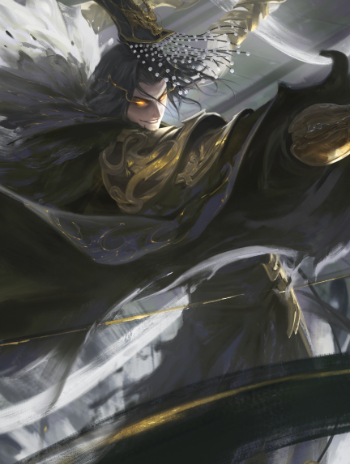
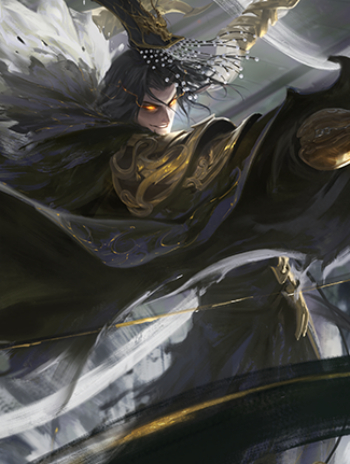
feat: 素材补充、界巨兽界马超增强为国际服版本、谋张任+1血 (#4049)

diff --git a/apps/core/character/mobile/skill.js b/apps/core/character/mobile/skill.js
@@ -20524,29 +20524,39 @@ const skills = {
 		subfrequent: ["draw"],
 		enable: "phaseUse",
 		usable: 1,
+		locked: false,
+		mod: {
+			cardUsable(card) {
+				if (card?.storage?.xinjianying) {
+					return Infinity;
+				}
+			},
+		},
 		filter(event, player) {
 			if (!player.countCards("he")) {
 				return false;
 			}
-			for (var i of lib.inpile) {
-				if (i != "du" && get.type(i, null, false) == "basic") {
-					if (event.filterCard({ name: i }, player, event)) {
-						return true;
-					}
-					if (i == "sha") {
-						for (var j of lib.inpile_nature) {
-							if (event.filterCard({ name: i, nature: j }, player, event)) {
-								return true;
-							}
-						}
-					}
+			return get.inpileVCardList(info => {
+				if (info[0] !== "basic") {
+					return false;
 				}
-			}
-			return false;
+				return event.filterCard(
+					get.autoViewAs(
+						{
+							name: info[2],
+							nature: info[3],
+							storage: { xinjianying: true },
+						},
+						"unsure"
+					),
+					player,
+					event
+				);
+			}).length;
 		},
 		onChooseToUse(event) {
 			if (event.type == "phase" && !game.online) {
-				var last = event.player.getLastUsed();
+				const last = event.player.getLastUsed();
 				if (last && last.getParent("phaseUse") == event.getParent()) {
 					var suit = get.suit(last.card, false);
 					if (suit != "none") {
@@ -20557,17 +20567,17 @@ const skills = {
 		},
 		chooseButton: {
 			dialog(event, player) {
-				var list = [];
-				var suit = event.xinjianying_suit || "",
+				const list = [];
+				const suit = event.xinjianying_suit || "",
 					str = get.translation(suit);
-				for (var i of lib.inpile) {
+				for (const i of lib.inpile) {
 					if (i != "du" && get.type(i, null, false) == "basic") {
-						if (event.filterCard({ name: i }, player, event)) {
+						if (event.filterCard({ name: i, storage: { xinjianying: true } }, player, event)) {
 							list.push(["基本", str, i]);
 						}
 						if (i == "sha") {
-							for (var j of lib.inpile_nature) {
-								if (event.filterCard({ name: i, nature: j }, player, event)) {
+							for (const j of lib.inpile_nature) {
+								if (event.filterCard({ name: i, nature: j, storage: { xinjianying: true } }, player, event)) {
 									list.push(["基本", str, i, j]);
 								}
 							}
@@ -20583,6 +20593,7 @@ const skills = {
 				return _status.event.player.getUseValue({
 					name: button.link[2],
 					nature: button.link[3],
+					storage: { xinjianying: true },
 				});
 			},
 			backup(links, player) {
@@ -20594,9 +20605,13 @@ const skills = {
 					viewAs: {
 						name: links[0][2],
 						nature: links[0][3],
+						storage: { xinjianying: true },
 					},
 					ai1(card) {
 						return 7 - _status.event.player.getUseValue(card, null, true);
+					},
+					async precontent(event, trigger, player) {
+						event.getParent().addCount = false;
 					},
 				};
 				if (_status.event.xinjianying_suit) {
@@ -20609,47 +20624,36 @@ const skills = {
 			},
 		},
 		ai: {
-			order(item, player) {
-				if (_status.event.xinjianying_suit) {
-					return 16;
-				}
-				return 3;
-			},
+			order: 3,
 			result: { player: 7 },
 		},
-		group: ["xinjianying_draw", "jianying_mark"],
+		group: ["xinjianying_draw", "dcjianying_mark"],
 		init(player) {
-			if (player.isPhaseUsing()) {
-				var evt = _status.event.getParent("phaseUse");
-				var history = player.getHistory("useCard", function (evt2) {
-					return evt2.getParent("phaseUse") == evt;
-				});
-				if (history.length) {
-					var trigger = history[history.length - 1];
-					player.storage.jianying_mark = trigger.card;
-					player.markSkill("jianying_mark");
-					game.broadcastAll(
-						function (player, suit) {
-							if (player.marks.jianying_mark) {
-								player.marks.jianying_mark.firstChild.innerHTML = get.translation(suit);
-							}
-						},
-						player,
-						get.suit(trigger.card, player)
-					);
-					player.when("phaseUseAfter").step(async () => {
-						player.unmarkSkill("jianying_mark");
-						delete player.storage.jianying_mark;
-					});
+			const history = player.getAllHistory("useCard");
+			if (history.length) {
+				const trigger = history[history.length - 1];
+				if (get.suit(trigger.card, player) == "none" || typeof get.number(trigger.card, player) != "number") {
+					return;
 				}
+				player.storage.dcjianying_mark = trigger.card;
+				player.markSkill("dcjianying_mark");
+				game.broadcastAll(
+					function (player2, suit) {
+						if (player2.marks.dcjianying_mark) {
+							player2.marks.dcjianying_mark.firstChild.innerHTML = get.translation(suit);
+						}
+					},
+					player,
+					get.suit(trigger.card, player)
+				);
 			}
 		},
 		onremove(player) {
-			player.unmarkSkill("jianying_mark");
-			delete player.storage.jianying_mark;
+			player.unmarkSkill("dcjianying_mark");
+			delete player.storage.dcjianying_mark;
 		},
 		subSkill: {
-			draw: { inherit: "jianying", audio: "xinjianying" },
+			draw: { inherit: "dcjianying", audio: "xinjianying" },
 		},
 	},
 	//步练师

diff --git a/apps/core/character/refresh/skill.js b/apps/core/character/refresh/skill.js
@@ -3487,7 +3487,7 @@ const skills = {
 						if (!cards.length) {
 							return;
 						}
-						const recover = hs.filter(card => get.tag(card, "save") || get.tag(card, "recover")).length;
+						const recover = cards.filter(card => get.tag(card, "save") || get.tag(card, "recover")).length;
 						if (recover >= target.getDamagedHp()) {
 							let eff = player.needsToDiscard(0, (card, player) => get.suit(card) != "heart" || !player.canIgnoreHandcard(card));
 							return [0, 0, 0, eff / 10];
@@ -4576,8 +4576,8 @@ const skills = {
 
 						// step 0
 						let card = false;
-						let	info = lib.skill.rejianyan_backup.info;
-						let	info2 = info in lib.color ? "color" : "type";
+						let info = lib.skill.rejianyan_backup.info;
+						let info2 = info in lib.color ? "color" : "type";
 						player.addTempSkill("rejianyan_used", "phaseUseEnd");
 						let func = card => get[info2 == "type" ? "type2" : "color"](card) == info;
 						player.markAuto("rejianyan_used", info2);
@@ -16793,7 +16793,6 @@ const skills = {
 		logTarget: "target",
 		async content(event, trigger, player) {
 			let result;
-			// step 0
 			result = await player
 				.judge(function () {
 					return 0;
@@ -16802,30 +16801,37 @@ const skills = {
 			if (!trigger.target.hasSkill("fengyin")) {
 				trigger.target.addTempSkill("fengyin");
 			}
-			// step 1
 			const suit = result.suit;
 			const target = trigger.target;
 			const num = target.countCards("h", "shan");
 			result = await target
-				.chooseToDiscard("请弃置一张" + get.translation(suit) + "牌，否则不能使用闪抵消此杀", "he", function (card) {
-					return get.suit(card) == _status.event.suit;
-				})
-				.set("ai", function (card) {
-					var num = _status.event.num;
-					if (num == 0) {
-						return 0;
-					}
-					if (card.name == "shan") {
-						return num > 1 ? 2 : 0;
-					}
-					return 8 - get.value(card);
+				.chooseToGive({
+					target: player,
+					filterCard(card) {
+						return get.suit(card) === get.event().suit;
+					},
+					position: "he",
+					prompt: `请交给${get.translation(player)}一张${get.translation(suit)}牌，否则不能使用闪抵消此杀且此杀伤害+1`,
+					ai(card) {
+						const num = get.event().num;
+						if (num == 0) {
+							return 0;
+						}
+						if (card.name == "shan") {
+							return num > 1 ? 2 : 0;
+						}
+						return 8 - get.value(card);
+					},
 				})
 				.set("num", num)
 				.set("suit", suit)
 				.forResult();
-			// step 2
 			if (!result.bool) {
 				trigger.getParent().directHit.add(trigger.target);
+				if (typeof trigger.getParent().baseDamage !== "number") {
+					trigger.getParent().baseDamage = 1;
+				}
+				trigger.getParent().baseDamage++;
 			}
 		},
 		ai: {

diff --git a/apps/core/character/tw/translate.js b/apps/core/character/tw/translate.js
@@ -1,8 +1,8 @@
 import { lib, game, ui, get, ai, _status } from "noname";
 
 const translates = {
-	twsb_xiahoudun: "TW谋夏侯惇",
-	twsb_xiahoudun_prefix: "TW谋",
+	tw_sb_xiahoudun: "TW谋夏侯惇",
+	tw_sb_xiahoudun_prefix: "TW谋",
 	twsbganglie: "刚烈",
 	twsbganglie_info: "出牌阶段限一次。你可以选择任意名本局游戏对你造成过伤害且你未以此法选择过的角色，你对其造成2点伤害。",
 	twsbqingjian: "清俭",

diff --git a/apps/core/character/mobile/translate.js b/apps/core/character/mobile/translate.js
@@ -646,7 +646,7 @@ const translates = {
 	xin_jushou: "手杀界沮授",
 	xin_jushou_prefix: "手杀界",
 	xinjianying: "渐营",
-	xinjianying_info: "①当你于出牌阶段内使用与此阶段你使用的上一张牌点数或花色相同的牌时，你可以摸一张牌。②出牌阶段限一次，你可以将一张牌当做任意基本牌使用。若你于此阶段内使用的上一张牌有花色，则此牌的花色视为上一张牌的花色。",
+	xinjianying_info: "①当你使用牌时，若此牌与你使用的上一张牌花色或点数相同，则你可以摸一张牌。②出牌阶段限一次，你可以将一张牌当做任意基本牌使用且无次数限制。若你于此阶段内使用的上一张牌有花色，则此牌的花色视为上一张牌的花色。",
 	re_xunyu: "手杀界荀彧",
 	re_xunyu_prefix: "手杀界",
 	rejieming: "节命",

diff --git a/apps/core/character/refresh/translate.js b/apps/core/character/refresh/translate.js
@@ -217,7 +217,7 @@ const translates = {
 	qiaomeng_info: "当你使用黑色【杀】对一名角色造成伤害后，你可以弃置该角色装备区里的一张牌，若此牌是坐骑牌，你于此牌置入弃牌堆后获得之。",
 	reyicong_info: "锁定技，你计算与其他角色的距离时-1。若你的体力值不大于2，则其他角色计算与你的距离时+1。",
 	refankui_info: "每当你受到1点伤害后，你可以获得伤害来源的一张牌。",
-	retieji_info: "当你使用【杀】指定一名角色为目标后，你可以进行一次判定并令该角色的非锁定技失效直到回合结束，除非该角色弃置一张与判定结果花色相同的牌，否则不能使用【闪】抵消此【杀】。",
+	retieji_info: "当你使用【杀】指定一名角色为目标后，你可以进行一次判定并令该角色的非锁定技失效直到回合结束，除非该角色交给你一张与判定结果花色相同的牌，否则不能使用【闪】抵消此【杀】且此【杀】伤害+1。",
 	yijue_info: "出牌阶段限一次，你可以与一名其他角色拼点，若你赢，则直到回合结束，该角色不能使用或打出手牌且其非锁定技失效，若你没赢，你可令该角色回复1点体力。",
 	reyiji_info: "每当你受到1点伤害后，你可以摸两张牌。然后你可以在至多两名角色的武将牌旁边分别扣置至多两张手牌，这些角色的下个摸牌阶段开始时，该角色获得其武将牌旁的这些牌。",
 	rejianxiong_info: "每当你受到伤害后，你可以获得对你造成伤害的牌，然后摸一张牌。",

diff --git a/apps/core/character/xianding/character.js b/apps/core/character/xianding/character.js
@@ -87,7 +87,7 @@ const characters = {
 	dc_sb_zhangren: {
 		sex: "male",
 		group: "qun",
-		hp: 4,
+		hp: 5,
 		skills: ["dcsbshedao", "dcsbxunshi", "dcsbzhengong"],
 	},
 	v_zhangxingcai: {